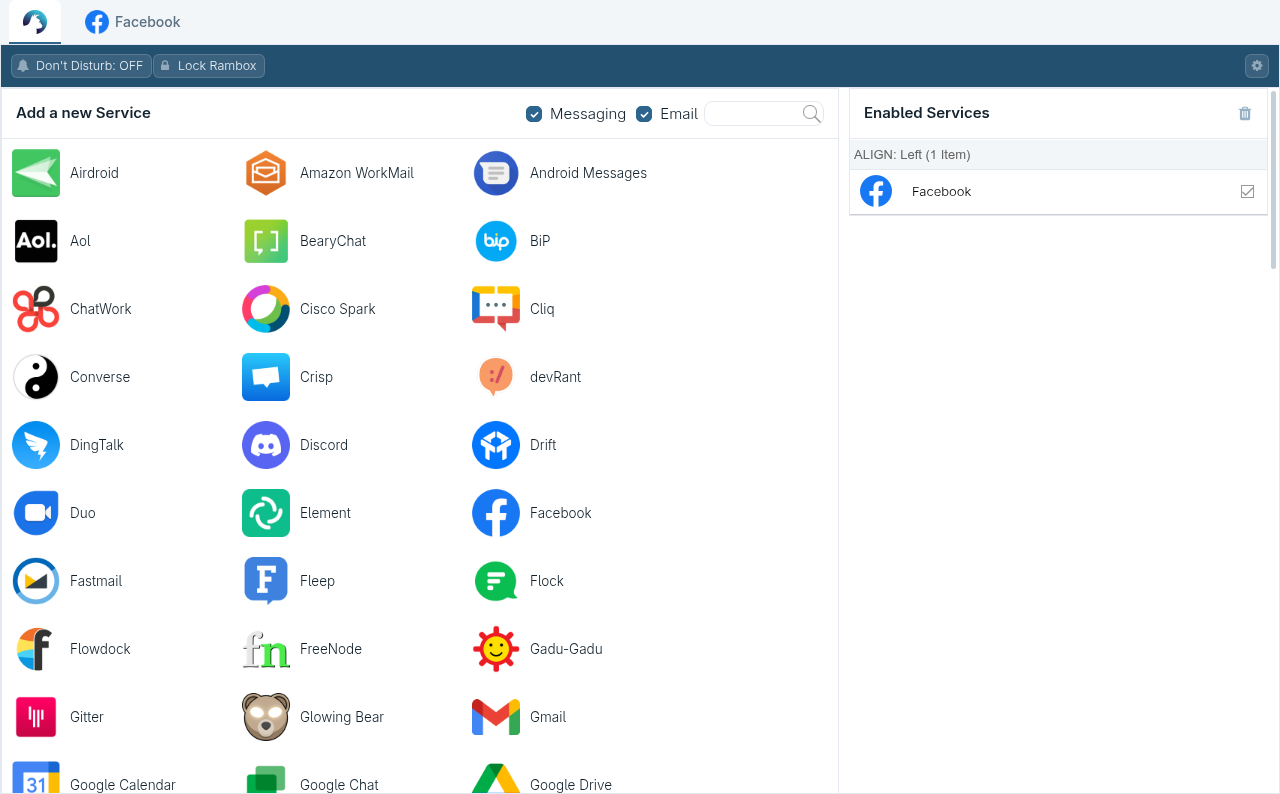
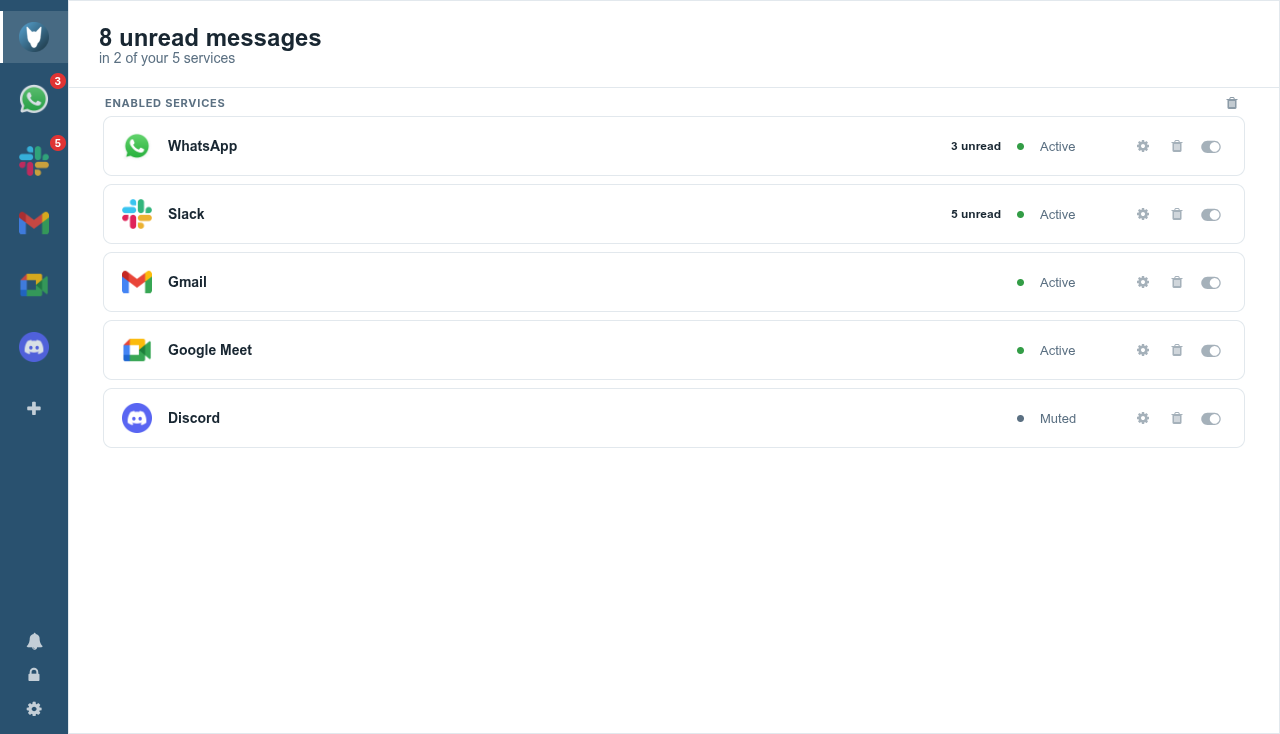
📝 docs(readme): bring it up to the current interface, catalogue and permissions

diff --git a/README.md b/README.md
@@ -5,7 +5,10 @@
   <p><a href="https://www.gnu.org/licenses/gpl-3.0.en.html">GNU GPL v3</a></p>
 </div>
 
-![Redil running on Linux](./resources/screenshots/linux.png)
+<p align="center">
+  <img src="./resources/screenshots/linux.png" width="49%" alt="Redil on Linux, light theme" />
+  <img src="./resources/screenshots/linux-dark.png" width="49%" alt="Redil on Linux, dark theme" />
+</p>
 
 ---
 
@@ -16,16 +19,19 @@ That is fixed. The app builds and runs from this repository with nothing but npm
 ## What changed since upstream
 
 - **Electron 13 to 44.** The renderer was moved off three APIs Electron has since removed: the `remote` module, the `new-window` event, and `desktopCapturer` in the renderer.
-- **Builds without Sencha Cmd.** `scripts/gen-bootstrap.js` boots the app from the Ext JS build and theme CSS already vendored in the repository.
+- **Builds without Sencha Cmd.** `scripts/gen-bootstrap.js` boots the app from the Ext JS build and theme CSS already vendored here. The Sencha workspace, the build files and the Sass that only that toolchain could read are gone.
+- **The renderer is isolated.** `contextIsolation` is on and `nodeIntegration` off; the page reaches the main process through a single preload with a closed list of channels. Service pages are isolated and sandboxed with it, because Electron will not let a guest be less isolated than the window hosting it.
 - **Packaging rebuilt** on electron-builder, straight from the repository, with no dependency on the archived artifact repo that upstream's CI cloned.
-- **Service permissions are refused by default.** The old handler granted camera, microphone and location to every loaded service without asking. Sensitive permissions now prompt once per service.
+- **Service permissions are refused by default.** The old handler granted camera, microphone and location to every service that asked. Camera, microphone and screen capture are now answered once per service and the answer is kept — except for the apps whose purpose is calls, which the catalogue marks and the service's own settings can change.
 - **A third-party tracker and a hardcoded API key** were removed from the renderer, along with the dead Auth0 sign-in and profile sync, which pointed at infrastructure this fork cannot use.
-- **The catalogue is maintained here.** Thirteen entries pointed at services that no longer exist. `npm run check:services` reports what has rotted.
-- **The interface was refreshed**, lightly, without changing the layout.
+- **The catalogue is maintained here.** Seven entries pointed at services that no longer answer and were dropped; ten were added, among them Google Meet, Zoom, ChatGPT, Claude and Bluesky. `npm run check:services` reports what has rotted.
+- **A new interface.** Services sit in a rail of icons down the left; the home tab opens on what is waiting for you rather than on a catalogue; adding a service is an overlay behind one button; preferences are five sections instead of one scroll of fourteen controls; and a dark theme follows the desktop.
+- **A mark of its own.** A sheepdog in a gradient circle. `resources/logo/Logo.svg` is the source every icon in the repository is generated from.
+- **Tests and a linter.** A Playwright suite launches the real app and drives it; `npm test` runs ESLint first.
 
 ## Install
 
-Builds are produced for Linux as an AppImage, a deb and a tarball. See [Releases](https://github.com/lukasborges/rambox-ce/releases).
+Builds are produced for Linux as an AppImage, a deb and a tarball. See [Releases](https://github.com/lukasborges/redil/releases).
 
 The AppImage needs FUSE 2, which some distributions no longer install by default. On Fedora that is `fuse-libs`; on Debian and Ubuntu, `libfuse2`. Without it, run the AppImage with `--appimage-extract-and-run`.
 
@@ -42,6 +48,7 @@ npm start
 On Linux, `npm start` may abort with a fatal GPU error, because the Electron installed by npm ships its sandbox helper without the setuid bit. Start it with `--no-sandbox`, which is what the packaged Linux builds already do.
 
 ```bash
+npm test                # ESLint, then the Playwright suite
 npm run build:linux     # AppImage, deb and tar.gz into dist/
 npm run check:services  # report catalogue entries whose URLs have rotted
 ```
@@ -56,9 +63,9 @@ Sessions belong to the services themselves. Redil is a frame around their web ap
 
 ## Contributing
 
-Work on a branch, never on `main`, and see [CONTRIBUTING.md](./CONTRIBUTING.md). The prerequisites listed there are out of date: Sencha Cmd and Ruby are no longer needed.
+This fork has one maintainer, who commits to `main`. Contributions are welcome as pull requests from a branch; [CONTRIBUTING.md](./CONTRIBUTING.md) is upstream's and still describes how to write one, except for its prerequisites: Sencha Cmd and Ruby are no longer needed.
 
-Translations come from Crowdin and are generated into `resources/languages`. The download path needs migrating to Crowdin's current API client; the version pinned here predates modern Node.
+Translations live generated in `resources/languages`. The download half of that pipeline is gone — it called a Crowdin API version that now answers 301, through a client that no longer loads on a modern Node, against a project this fork does not own. Until there is a Crowdin project for Redil, those generated files are the only source there is, and strings added since ship in English.
 
 ## Disclosure
 
